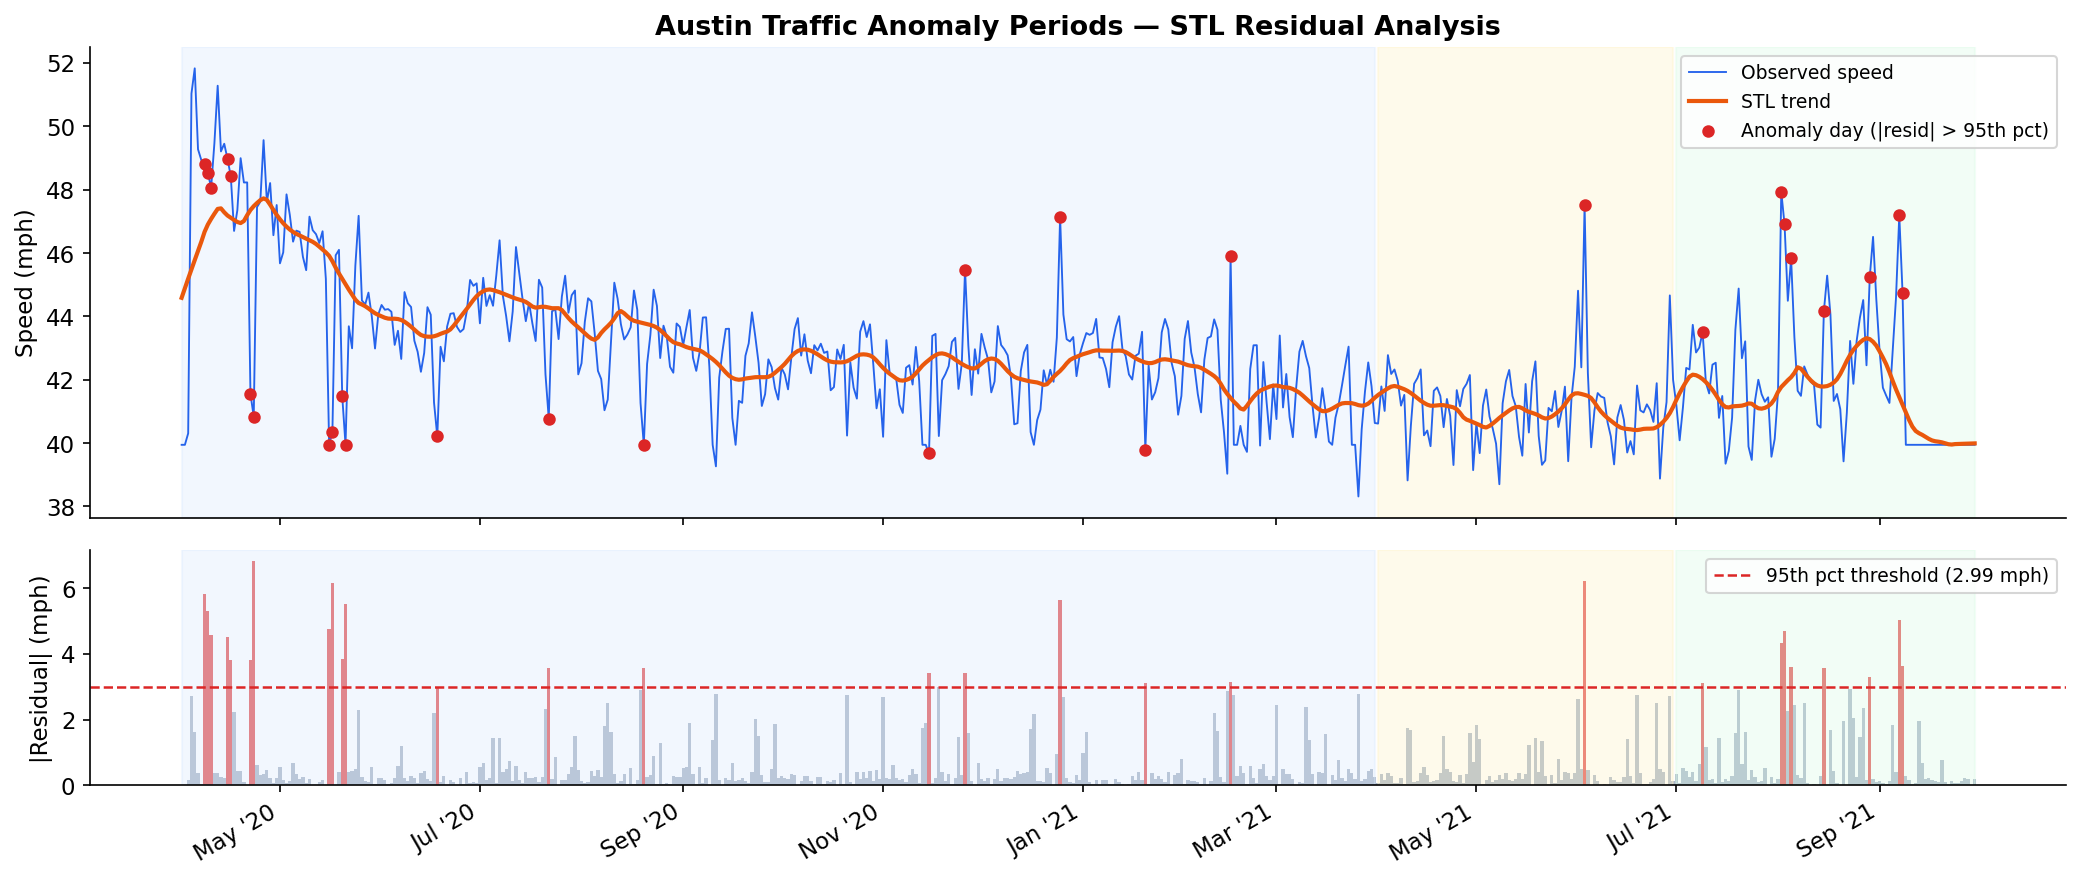
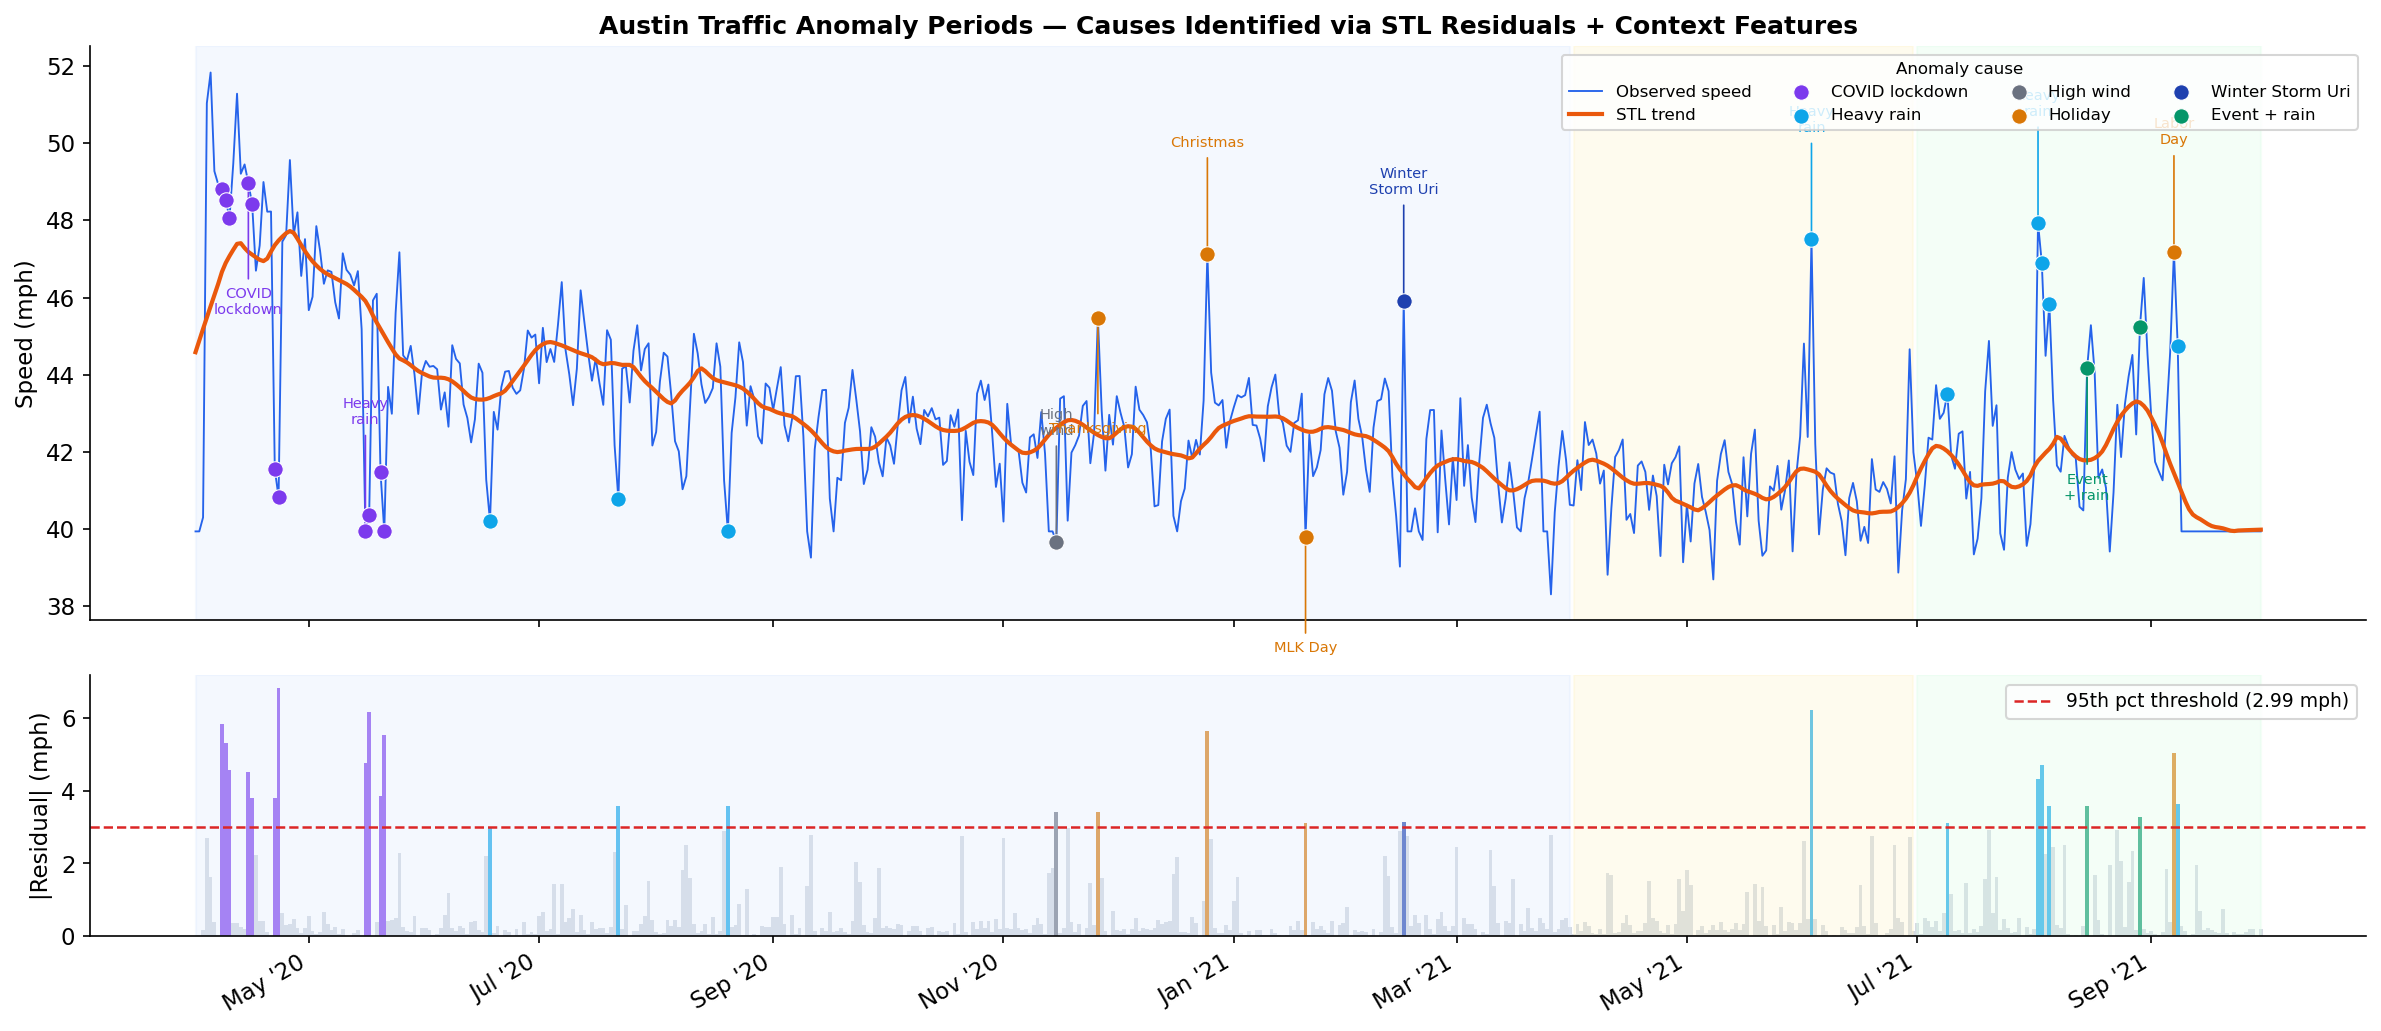
Annotate anomaly plot with cause labels (weather, events, holidays, COVID)
Each anomaly dot now color-coded and labelled by cause:
- COVID lockdown (Apr 2020 cluster)
- Heavy rain (multiple dates)
- Winter Storm Uri (Feb 15, 2021)
- Holiday (Thanksgiving, Christmas, MLK Day, Labor Day)
- High wind (Nov 15, 2020)
- Event + rain (Aug 15, Aug 29, 2021)

Cause detection uses denormalized context features (precip, temp, wind, event_active).

diff --git a/src/analysis/eda_plots.py b/src/analysis/eda_plots.py
@@ -235,37 +235,150 @@ print(f"  Saved {path}")
 
 
 # ══════════════════════════════════════════════════════════════════════════════
-# Figure 4 — Anomaly periods (high STL residuals)
+# Figure 4 — Anomaly periods with cause annotations
 # ══════════════════════════════════════════════════════════════════════════════
-print("Plotting Fig 4: anomaly periods...")
+print("Plotting Fig 4: anomaly periods with annotations...")
+
+# Load context for decoding anomaly causes
+context_raw = np.load("data/graph/context.npy", mmap_mode="r")
+with open("data/graph/scaler_context.pkl", "rb") as f:
+    scaler_ctx = pickle.load(f)
+
+ctx_cols = [
+    "temp", "precip", "wind", "humidity", "visibility", "weather_code",
+    "hour_sin", "hour_cos", "dow_sin", "dow_cos", "month_sin", "month_cos", "is_weekend",
+    "event_active", "n_concurrent", "has_road_closure", "road_closure_count",
+]
+ctx_df = pd.DataFrame(context_raw, index=ts, columns=ctx_cols)
+
+# Denormalize key columns for threshold checks
+ctx_df["precip_raw"]       = ctx_df["precip"]       * scaler_ctx.scale_[1] + scaler_ctx.mean_[1]
+ctx_df["temp_raw"]         = ctx_df["temp"]          * scaler_ctx.scale_[0] + scaler_ctx.mean_[0]
+ctx_df["wind_raw"]         = ctx_df["wind"]          * scaler_ctx.scale_[2] + scaler_ctx.mean_[2]
+ctx_df["event_active_raw"] = ctx_df["event_active"]  * scaler_ctx.scale_[13]
+
+# Daily max of each signal
+daily_precip = ctx_df["precip_raw"].resample("D").max()
+daily_temp   = ctx_df["temp_raw"].resample("D").min()
+daily_wind   = ctx_df["wind_raw"].resample("D").max()
+daily_event  = ctx_df["event_active_raw"].resample("D").max()
+
+# Cause classification per day (priority order)
+COVID_DATES = pd.date_range("2020-04-01", "2020-05-31")
+HOLIDAYS = {
+    pd.Timestamp("2020-11-26"): "Thanksgiving",
+    pd.Timestamp("2020-12-25"): "Christmas",
+    pd.Timestamp("2021-01-20"): "MLK Day",
+    pd.Timestamp("2021-09-07"): "Labor Day",
+}
+WINTER_STORM = pd.Timestamp("2021-02-15")
+
+CAUSE_COLORS = {
+    "COVID lockdown":  "#7C3AED",   # purple
+    "Heavy rain":      "#0EA5E9",   # sky blue
+    "Winter Storm Uri":"#1E40AF",   # dark blue
+    "Holiday":         "#D97706",   # amber
+    "Event + rain":    "#059669",   # emerald
+    "Extreme heat":    "#DC2626",   # red
+    "High wind":       "#6B7280",   # grey
+}
+
+def classify_cause(date):
+    d = pd.Timestamp(date)
+    if d in HOLIDAYS:
+        return "Holiday"
+    if d == WINTER_STORM:
+        return "Winter Storm Uri"
+    if d in COVID_DATES:
+        return "COVID lockdown"
+    if daily_event.get(d, 0) > 0.5 and daily_precip.get(d, 0) > 0.3:
+        return "Event + rain"
+    if daily_precip.get(d, 0) > 2.0:
+        return "Heavy rain"
+    if daily_temp.get(d, 99) < 50:
+        return "Winter Storm Uri"
+    if daily_wind.get(d, 0) > 18:
+        return "High wind"
+    if daily_temp.get(d, 0) > 85:
+        return "Extreme heat"
+    return "Heavy rain"   # fallback for remaining weather anomalies
 
 resid = result.resid.dropna()
-threshold = resid.abs().quantile(0.95)          # top 5% residuals = anomalies
+threshold = resid.abs().quantile(0.95)
 is_anomaly = resid.abs() > threshold
+anomaly_idx = resid[is_anomaly].index
 
-fig, axes = plt.subplots(2, 1, figsize=(14, 6), sharex=True,
-                         gridspec_kw={"height_ratios": [2, 1]})
+# Assign cause to each anomaly date
+anomaly_causes = {d: classify_cause(d) for d in anomaly_idx}
+
+# Key labels to annotate (one representative per cluster, to avoid clutter)
+# Groups: COVID cluster → one label; individual notable dates labelled directly
+ANNOTATIONS = {
+    pd.Timestamp("2020-04-15"): ("COVID\nlockdown", "below"),
+    pd.Timestamp("2020-05-16"): ("Heavy\nrain", "above"),
+    pd.Timestamp("2020-11-15"): ("High\nwind", "above"),
+    pd.Timestamp("2020-11-26"): ("Thanksgiving", "below"),
+    pd.Timestamp("2020-12-25"): ("Christmas", "above"),
+    pd.Timestamp("2021-01-20"): ("MLK Day", "below"),
+    pd.Timestamp("2021-02-15"): ("Winter\nStorm Uri", "above"),
+    pd.Timestamp("2021-06-03"): ("Heavy\nrain", "above"),
+    pd.Timestamp("2021-08-02"): ("Heavy\nrain", "above"),
+    pd.Timestamp("2021-08-15"): ("Event\n+ rain", "below"),
+    pd.Timestamp("2021-09-07"): ("Labor\nDay", "above"),
+}
+
+fig, axes = plt.subplots(2, 1, figsize=(16, 7), sharex=True,
+                         gridspec_kw={"height_ratios": [2.2, 1]})
 
 ax = axes[0]
-ax.plot(daily_avg.index, daily_avg.values, color=BLUE, linewidth=0.9, label="Observed speed")
+ax.plot(daily_avg.index, daily_avg.values, color=BLUE, linewidth=0.9,
+        label="Observed speed", zorder=2)
 ax.plot(result.trend.index, result.trend.values, color=ORANGE,
         linewidth=2, label="STL trend", zorder=3)
-ax.scatter(daily_avg.index[is_anomaly], daily_avg.values[is_anomaly],
-           color=RED, s=25, zorder=4, label=f"Anomaly day (|resid| > 95th pct)")
-for label, (color, (t0, t1)) in SPLIT_COLORS.items():
-    ax.axvspan(t0, t1, color=color, alpha=0.35)
-ax.set_ylabel("Speed (mph)")
-ax.set_title("Austin Traffic Anomaly Periods — STL Residual Analysis",
-             fontsize=13, fontweight="bold")
-ax.legend(fontsize=9)
 
+# Plot anomaly dots color-coded by cause
+plotted_causes = set()
+for d in anomaly_idx:
+    cause = anomaly_causes[d]
+    c     = CAUSE_COLORS[cause]
+    lbl   = cause if cause not in plotted_causes else "_nolegend_"
+    ax.scatter(d, daily_avg.loc[d], color=c, s=55, zorder=5,
+               edgecolors="white", linewidths=0.5, label=lbl)
+    plotted_causes.add(cause)
+
+# Annotations with arrows
+for d, (txt, pos) in ANNOTATIONS.items():
+    if d not in daily_avg.index:
+        continue
+    y_val = daily_avg.loc[d]
+    dy    = 1.8 if pos == "above" else -1.8
+    ax.annotate(
+        txt, xy=(d, y_val), xytext=(d, y_val + dy * 1.5),
+        fontsize=7, ha="center", va="bottom" if pos == "above" else "top",
+        color=CAUSE_COLORS[anomaly_causes[d]],
+        arrowprops=dict(arrowstyle="-", color=CAUSE_COLORS[anomaly_causes[d]],
+                        lw=0.8),
+    )
+
+for lbl, (bg, (t0, t1)) in SPLIT_COLORS.items():
+    ax.axvspan(t0, t1, color=bg, alpha=0.3)
+
+ax.set_ylabel("Speed (mph)")
+ax.set_title("Austin Traffic Anomaly Periods — Causes Identified via STL Residuals + Context Features",
+             fontsize=12, fontweight="bold")
+ax.legend(loc="upper right", fontsize=8, ncol=4,
+          title="Anomaly cause", title_fontsize=8)
+
+# Bottom panel — residual bars, colored by cause
 ax2 = axes[1]
-ax2.bar(resid.index, resid.abs().values, width=1,
-        color=[RED if v else GREY for v in is_anomaly], alpha=0.8)
+for d, val in resid.items():
+    color = CAUSE_COLORS.get(anomaly_causes.get(d), GREY) if d in anomaly_idx else GREY
+    ax2.bar(d, abs(val), width=1, color=color,
+            alpha=0.85 if d in anomaly_idx else 0.4)
 ax2.axhline(threshold, color=RED, linewidth=1.2, linestyle="--",
             label=f"95th pct threshold ({threshold:.2f} mph)")
-for label, (color, (t0, t1)) in SPLIT_COLORS.items():
-    ax2.axvspan(t0, t1, color=color, alpha=0.35)
+for lbl, (bg, (t0, t1)) in SPLIT_COLORS.items():
+    ax2.axvspan(t0, t1, color=bg, alpha=0.3)
 ax2.set_ylabel("|Residual| (mph)")
 ax2.legend(fontsize=9)
 ax2.xaxis.set_major_formatter(mdates.DateFormatter("%b '%y"))
